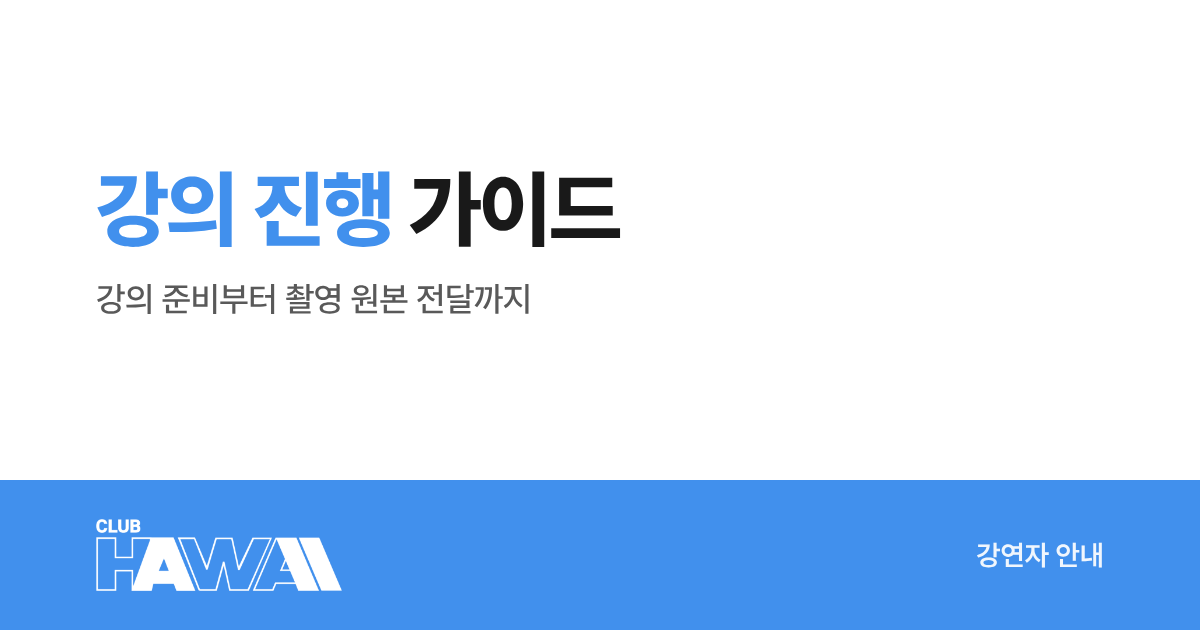
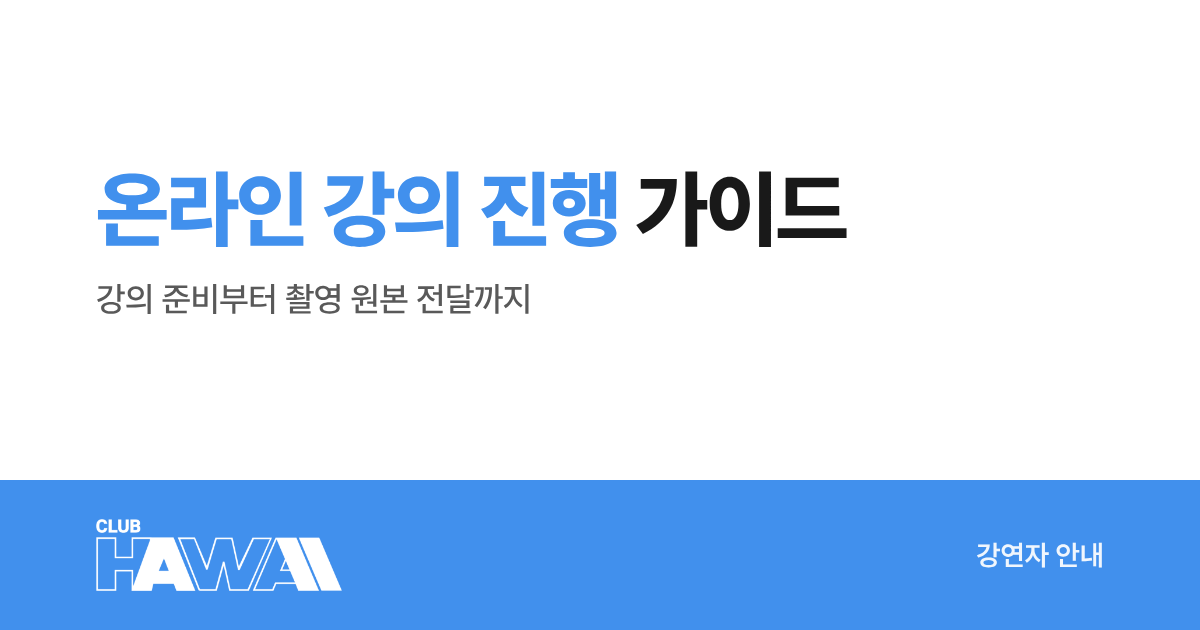
가이드 제목을 '클럽하와이 온라인 강의 진행 가이드'로 변경
Claude-Session: https://claude.ai/code/session_01LUQZYUpiMqAryzuDT3Vyi3

Changed region(s): [[0.0617, 0.2714, 0.7092, 0.3921]]

diff --git a/index.html b/index.html
@@ -3,11 +3,11 @@
 <head>
 <meta charset="utf-8">
 <meta name="viewport" content="width=device-width, initial-scale=1">
-<title>클럽하와이 강의 진행 가이드</title>
+<title>클럽하와이 온라인 강의 진행 가이드</title>
 <meta name="description" content="강의 준비부터 촬영 원본 전달까지, 강연자분들께 안내드리는 진행 과정입니다.">
 <meta property="og:type" content="website">
 <meta property="og:site_name" content="클럽하와이">
-<meta property="og:title" content="클럽하와이 강의 진행 가이드">
+<meta property="og:title" content="클럽하와이 온라인 강의 진행 가이드">
 <meta property="og:description" content="강의 준비부터 촬영 원본 전달까지, 강연자분들께 안내드리는 진행 과정입니다.">
 <meta property="og:image" content="https://clubhawaii.github.io/lecturer-guide/og-lecture.png">
 <meta property="og:image:width" content="1200">
@@ -176,7 +176,7 @@ details dd{margin:0;color:var(--sub)}
 <section class="panel">
   <div class="hero">
     <div>
-      <h1>클럽하와이<br>강의 진행 가이드</h1>
+      <h1>클럽하와이<br>온라인 강의 진행 가이드</h1>
       <p class="lead">강의를 맡아 주셔서 감사합니다.<br>준비부터 강의 당일까지의 <b>진행 과정</b>을 안내드립니다.</p>
       <a class="btn" href="#flow">진행 과정 보기 <svg class="arrow"><use href="#arr"/></svg></a>
     </div>
@@ -197,7 +197,7 @@ details dd{margin:0;color:var(--sub)}
     <p>강의 확정부터 강의 당일 촬영 원본 전달까지 아래 순서로 진행됩니다.</p>
   </div>
   <div class="rows">
-    <div class="row"><span class="d">한 달 전</span><span class="t">강의 확정 및 사전 안내</span><span class="x">강의 진행 가이드와 클럽하와이 PPT 템플릿·작성 규칙을 전달드립니다. 세팅 장비 대여 희망 여부를 회신 부탁드립니다.</span><a class="go" href="#vod" aria-label="복습 VOD 촬영으로"><svg class="arrow"><use href="#arr"/></svg></a></div>
+    <div class="row"><span class="d">한 달 전</span><span class="t">강의 확정 및 사전 안내</span><span class="x">온라인 강의 진행 가이드와 클럽하와이 PPT 템플릿·작성 규칙을 전달드립니다. 세팅 장비 대여 희망 여부를 회신 부탁드립니다.</span><a class="go" href="#vod" aria-label="복습 VOD 촬영으로"><svg class="arrow"><use href="#arr"/></svg></a></div>
     <div class="row"><span class="d">D-7</span><span class="t">자료 제출 및 리허설 영상 전달</span><span class="x">제출 폼에 핵심 주제와 파트 구성을 작성하시고, 발표 자료·배포용 자료·리허설 영상을 전달해 주시면 검토 후 회신드립니다.</span><a class="go" href="#deck" aria-label="발표 자료 준비로"><svg class="arrow"><use href="#arr"/></svg></a></div>
     <div class="row on"><span class="d">D-day</span><span class="t">강의 진행</span><span class="x">강의는 줌으로 진행되며, 화면 녹화는 클럽하와이 담당자가 진행합니다. 강의 모습은 휴대폰으로 촬영 부탁드립니다.</span><a class="go" href="#vod" aria-label="복습 VOD 촬영으로"><svg class="arrow"><use href="#arr"/></svg></a></div>
     <div class="row"><span class="d">강의 종료 후</span><span class="t">촬영 원본 전달</span><span class="x">강의 당일, 휴대폰으로 촬영한 원본 영상을 업로드 링크로 전달 부탁드립니다.</span><a class="go" href="#vod" aria-label="복습 VOD 촬영으로"><svg class="arrow"><use href="#arr"/></svg></a></div>

diff --git a/shoot.html b/shoot.html
@@ -187,7 +187,7 @@ details dd{margin:0;color:var(--sub)}
 <section class="panel" id="flow">
   <div class="head">
     <h2>촬영 일정</h2>
-    <p>전체 강의 진행 과정은 <a href="./" style="color:var(--blueT)">강의 진행 가이드</a>를 참고해 주시기 바랍니다.</p>
+    <p>전체 강의 진행 과정은 <a href="./" style="color:var(--blueT)">온라인 강의 진행 가이드</a>를 참고해 주시기 바랍니다.</p>
   </div>
   <div class="rows">
     <div class="row"><span class="d">D-7</span><span class="t">리허설 영상·자료 전달</span><span class="x">강의 당일과 동일하게 세팅해 1분 분량으로 촬영하고, 발표 자료와 함께 구글드라이브 링크 또는 카카오톡으로 전달 부탁드립니다. 검토 후 회신드립니다.</span><a class="go" href="#prep" aria-label="사전 준비 체크리스트로"><svg class="arrow"><use href="#arr"/></svg></a></div>
@@ -409,7 +409,7 @@ details dd{margin:0;color:var(--sub)}
 <section class="panel">
   <div class="foot">
     <div><b>문의 · 클럽하와이 양유민PD</b><br><span>구매 링크와 업로드 링크는 별도로 전달드립니다.</span></div>
-    <a class="btn" href="./">강의 진행 가이드 <svg class="arrow"><use href="#arr"/></svg></a>
+    <a class="btn" href="./">온라인 강의 진행 가이드 <svg class="arrow"><use href="#arr"/></svg></a>
   </div>
 </section>
 
